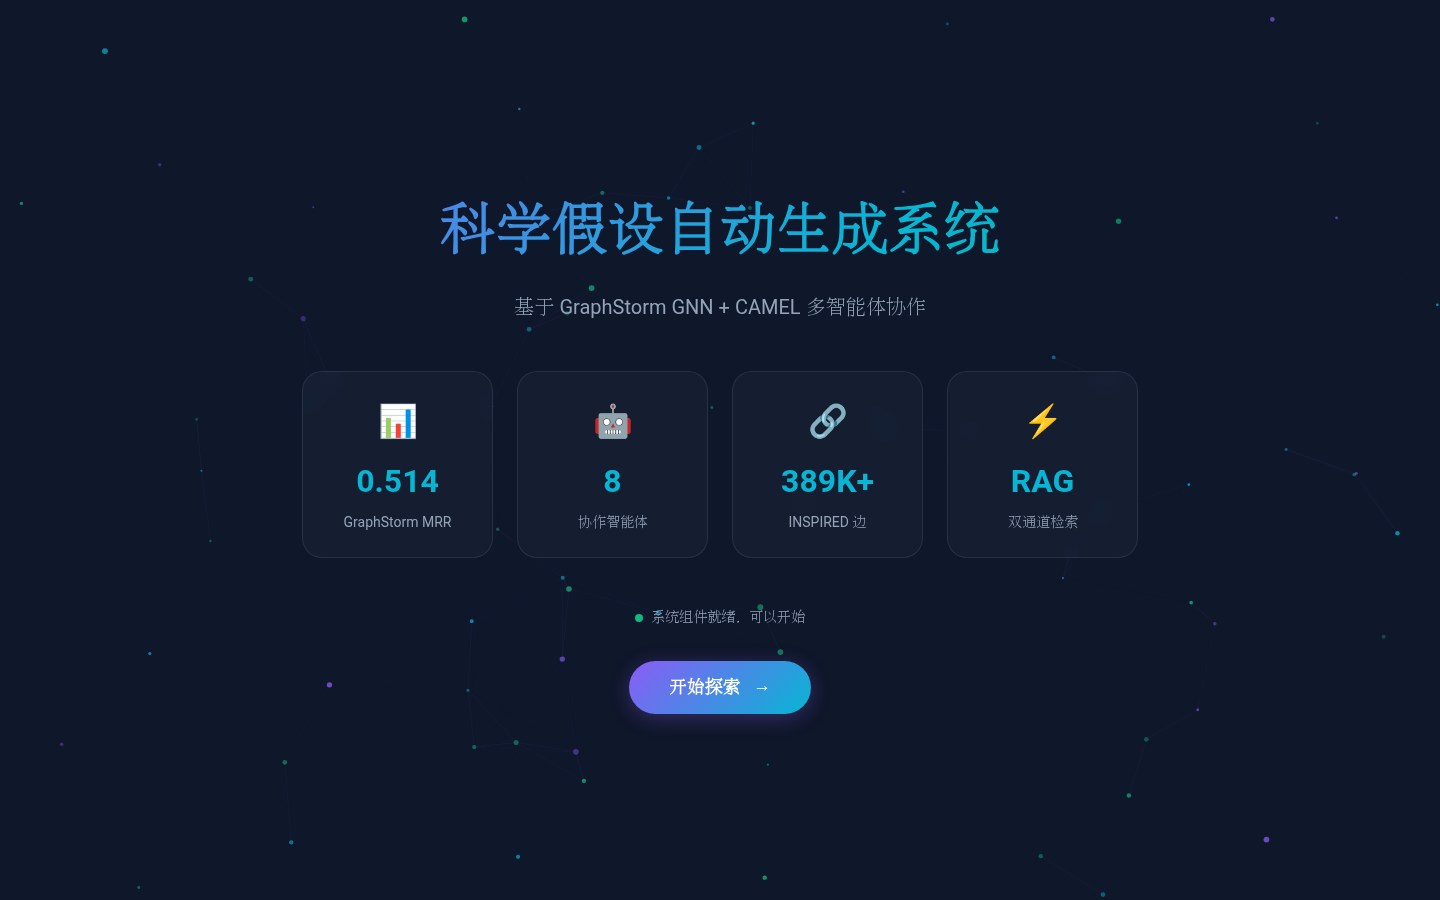
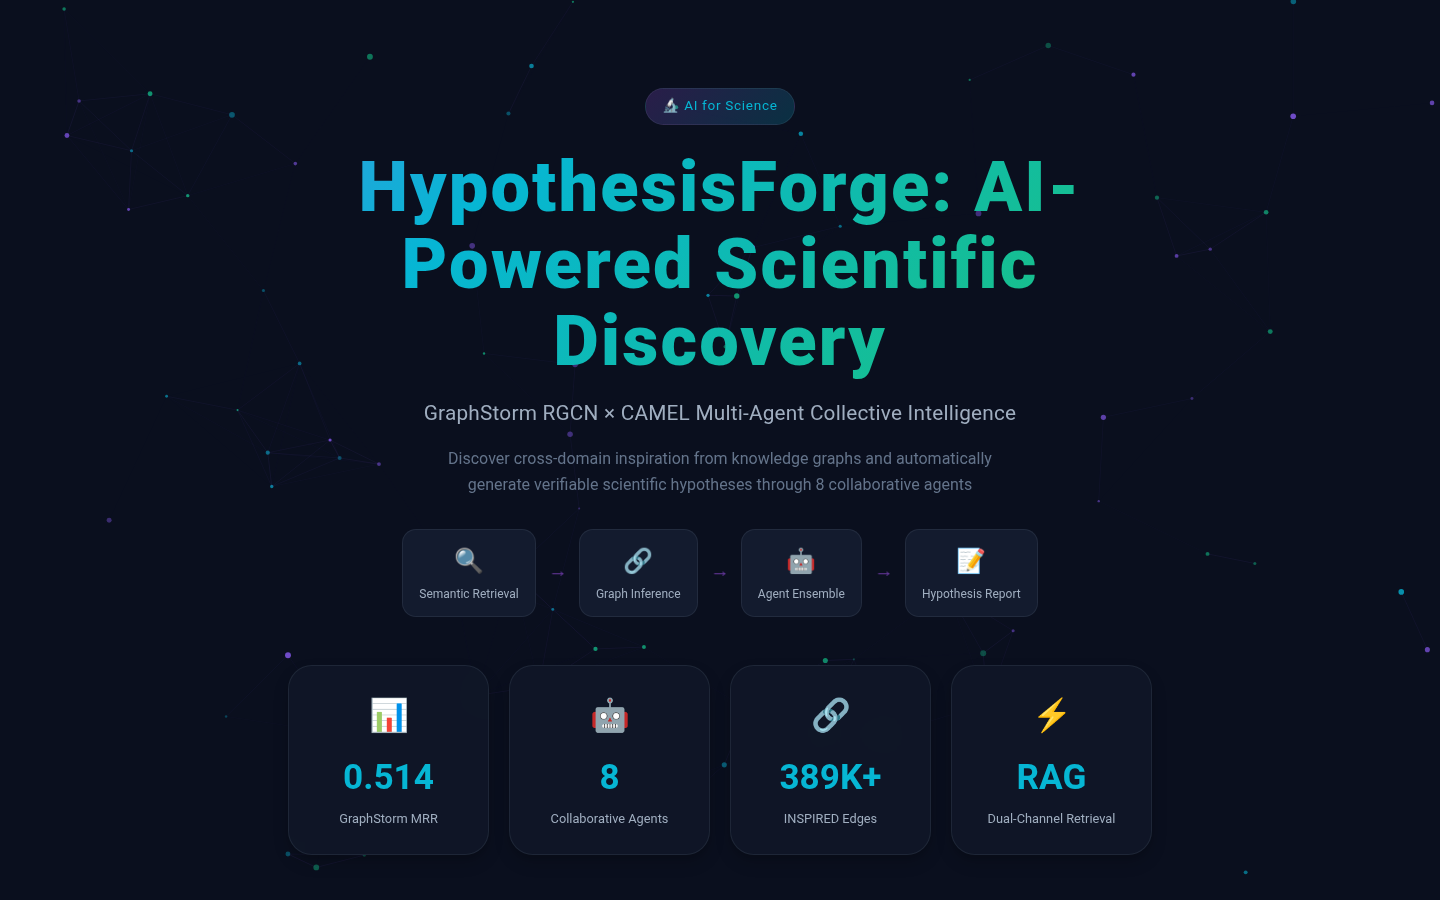
docs: retake English UI screenshots with clean HTML layout
- Capture fresh screenshots of the fully-English web interface
- Use <p align=center> + <img width=32%> for uniform side-by-side layout
- Remove broken <video> tag (GitHub README does not support it)
- Add 'Watch Full Demo Video' link pointing to Release asset

diff --git a/README.md b/README.md
@@ -347,14 +347,21 @@ Experience FIG-MAC through an interactive web interface — no API key required 
 
 ### Demo Preview
 
-<video src="https://github.com/SiyuanChenToDo/FIG-MAC-Fine-grained-Inspiration-Graph-Empowered-Multi-Agent-Collaboration-for-Automated-Scientific/releases/download/demo-video/demo.webm" width="100%" controls autoplay muted loop>
-  Your browser does not support the video tag.
-</video>
+<p align="center">
+  <img src="assets/screenshot_landing.png" width="32%" alt="Landing Page" />
+  <img src="assets/screenshot_think.png" width="32%" alt="Agent Round-Table" />
+  <img src="assets/screenshot_result.png" width="32%" alt="Final Report" />
+</p>
 
-| Landing Page | Agent Round-Table | Final Report |
-|:------------:|:-----------------:|:------------:|
-| ![Landing](assets/screenshot_landing.png) | ![Think](assets/screenshot_think.png) | ![Result](assets/screenshot_result.png) |
-| 🏠 Glassmorphism intro with particle animation | 🤖 8 agents collaborating in real-time | 📊 Interactive charts + LaTeX formulas |
+<p align="center">
+  <b>🏠 Landing</b> &nbsp;|&nbsp; <b>🤖 Agent Collaboration</b> &nbsp;|&nbsp; <b>📊 Results & Visualization</b>
+</p>
+
+<p align="center">
+  <a href="https://github.com/SiyuanChenToDo/FIG-MAC-Fine-grained-Inspiration-Graph-Empowered-Multi-Agent-Collaboration-for-Automated-Scientific/releases/download/demo-video/demo.webm">
+    ▶ Watch Full Demo Video (2:20)
+  </a>
+</p>
 
 ### Quick Start (Web Demo)
 
